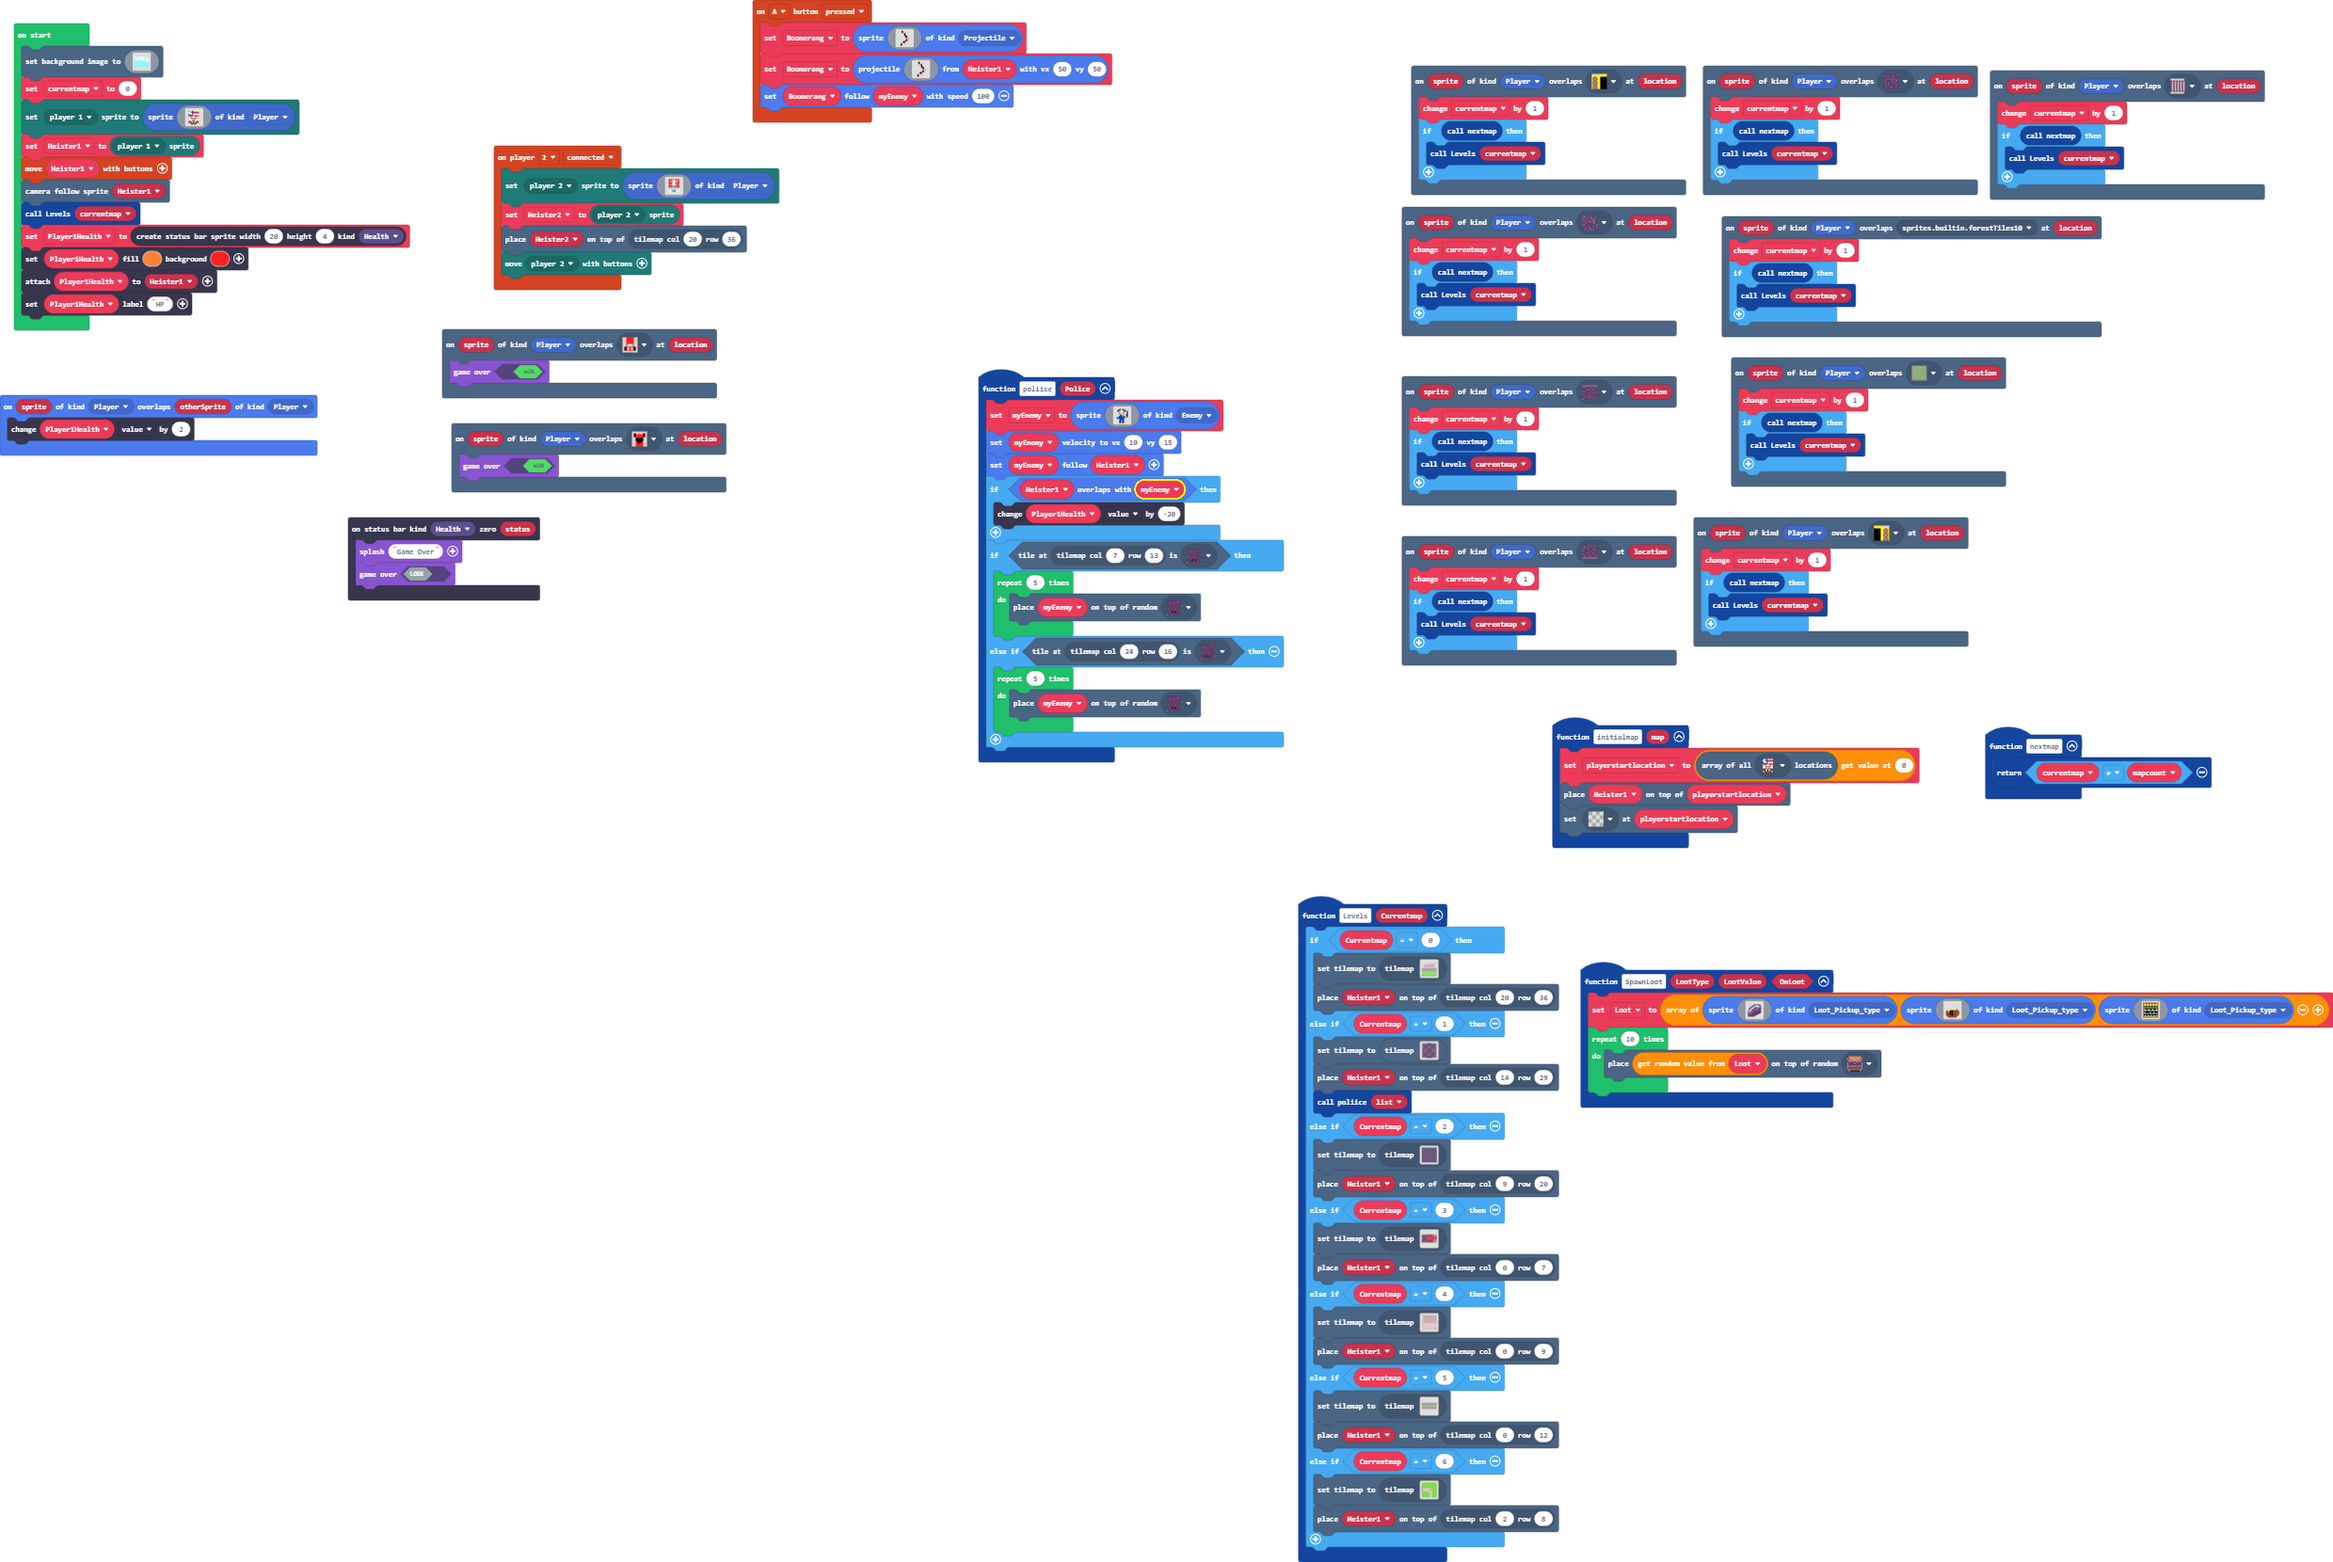
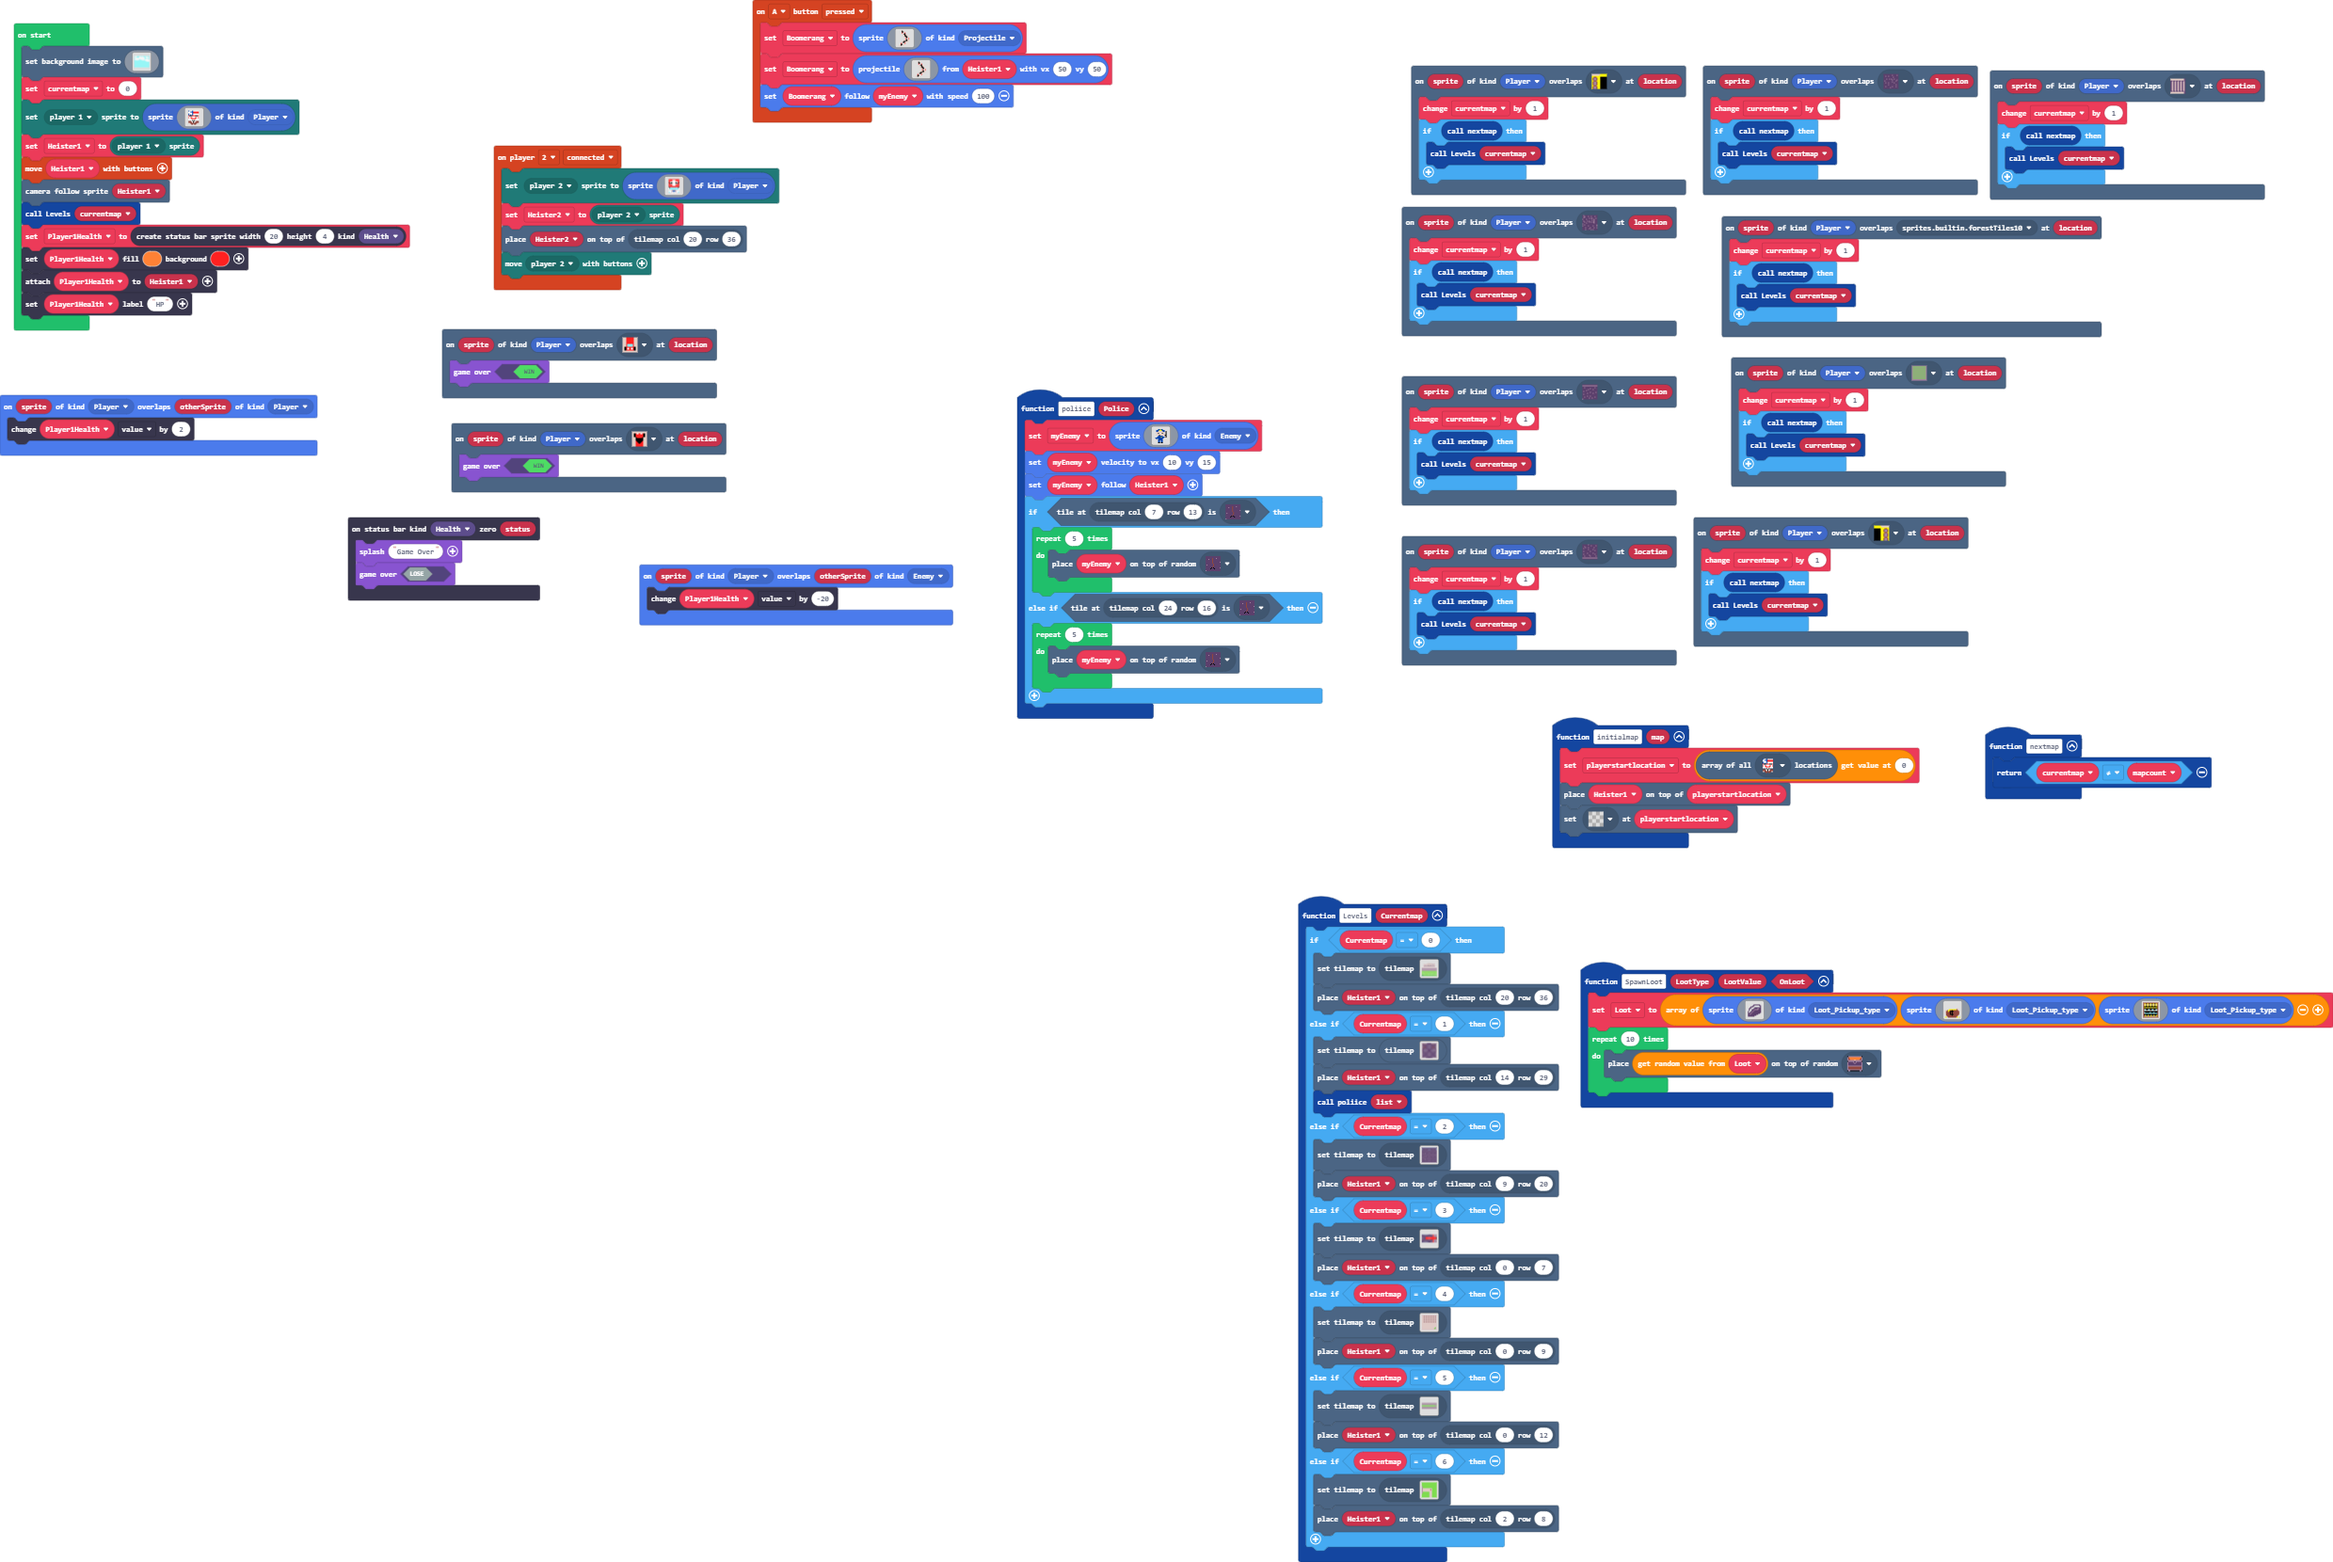
Update main.blocks, main.ts

Changed region(s): [[0.2485, 0.2151, 0.5902, 0.4916]]

diff --git a/main.ts b/main.ts
@@ -71,9 +71,6 @@ function poliice (Police: any[]) {
     myEnemy = sprites.create(assets.image`myImage`, SpriteKind.Enemy)
     myEnemy.setVelocity(10, 15)
     myEnemy.follow(Heister1)
-    if (Heister1.overlapsWith(myEnemy)) {
-        Player1Health.value += -20
-    }
     if (tiles.tileAtLocationEquals(tiles.getTileLocation(7, 13), assets.tile`rope_tile`)) {
         for (let index = 0; index < 5; index++) {
             tiles.placeOnRandomTile(myEnemy, assets.tile`rope_tile`)
@@ -136,6 +133,9 @@ scene.onOverlapTile(SpriteKind.Player, assets.tile`myTile28`, function (sprite, 
     if (nextmap()) {
         Levels(currentmap)
     }
+})
+sprites.onOverlap(SpriteKind.Player, SpriteKind.Enemy, function (sprite, otherSprite) {
+    Player1Health.value += -20
 })
 let Heister2: Sprite = null
 let Loot: Sprite[] = []
